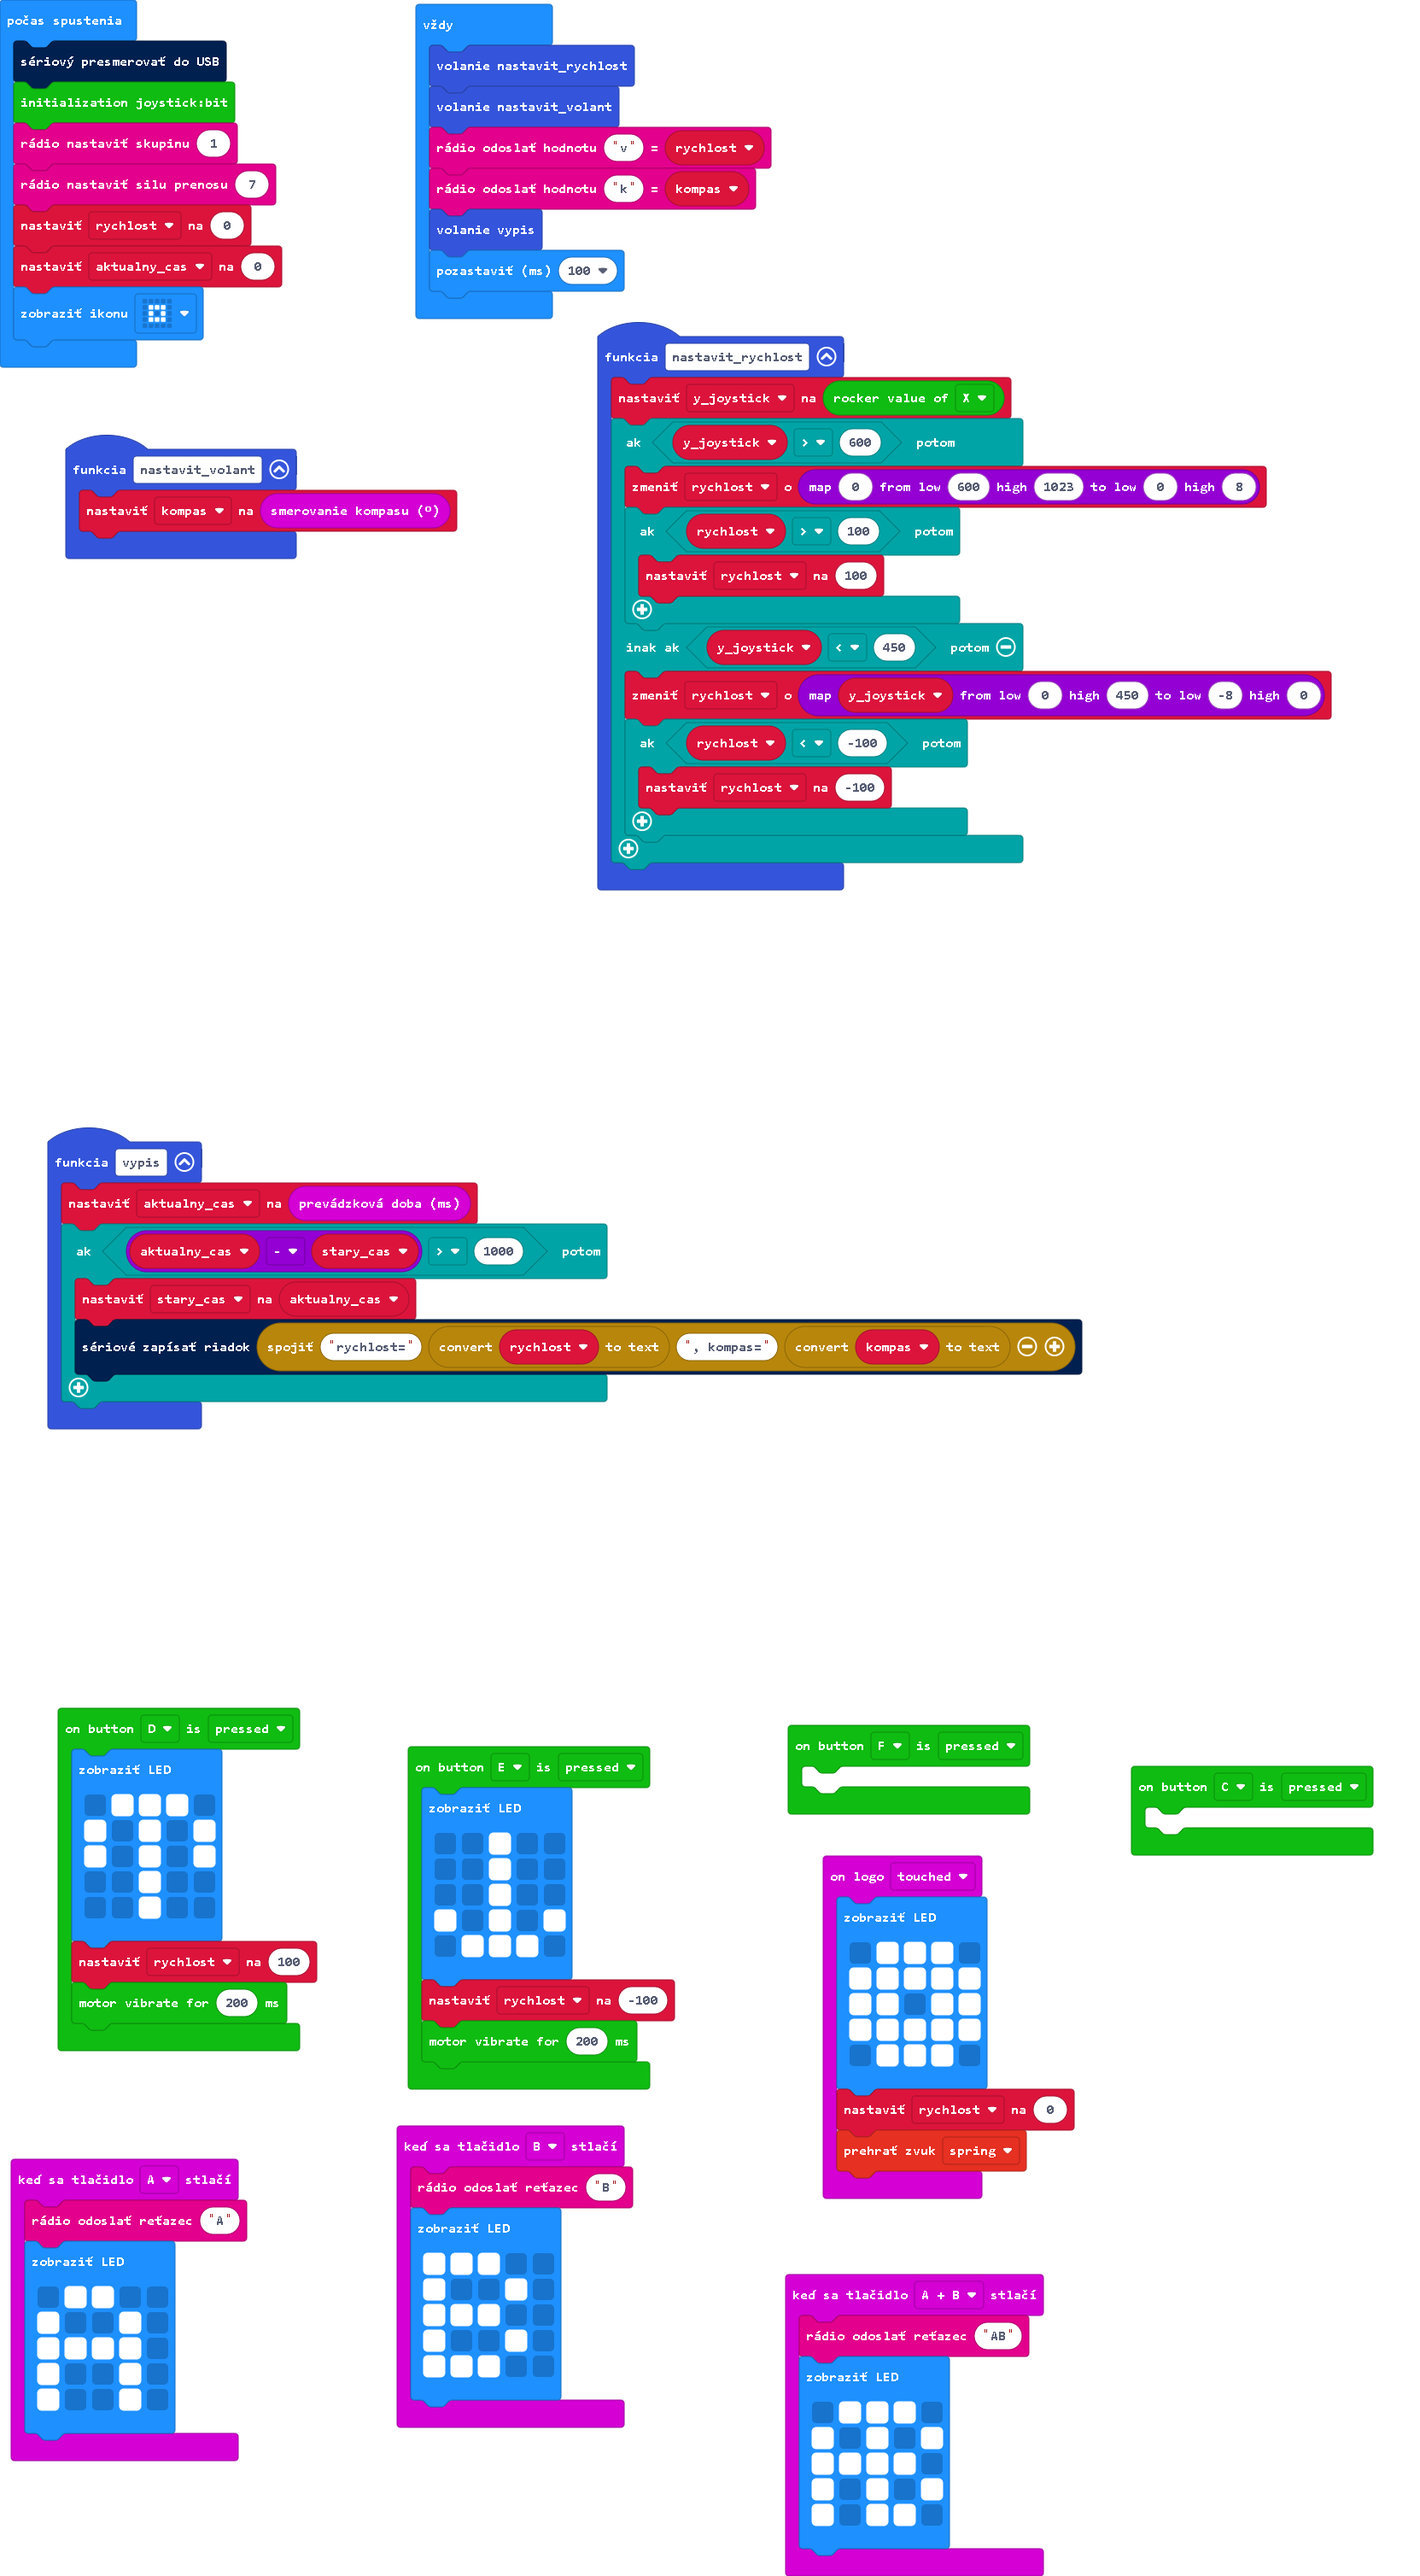
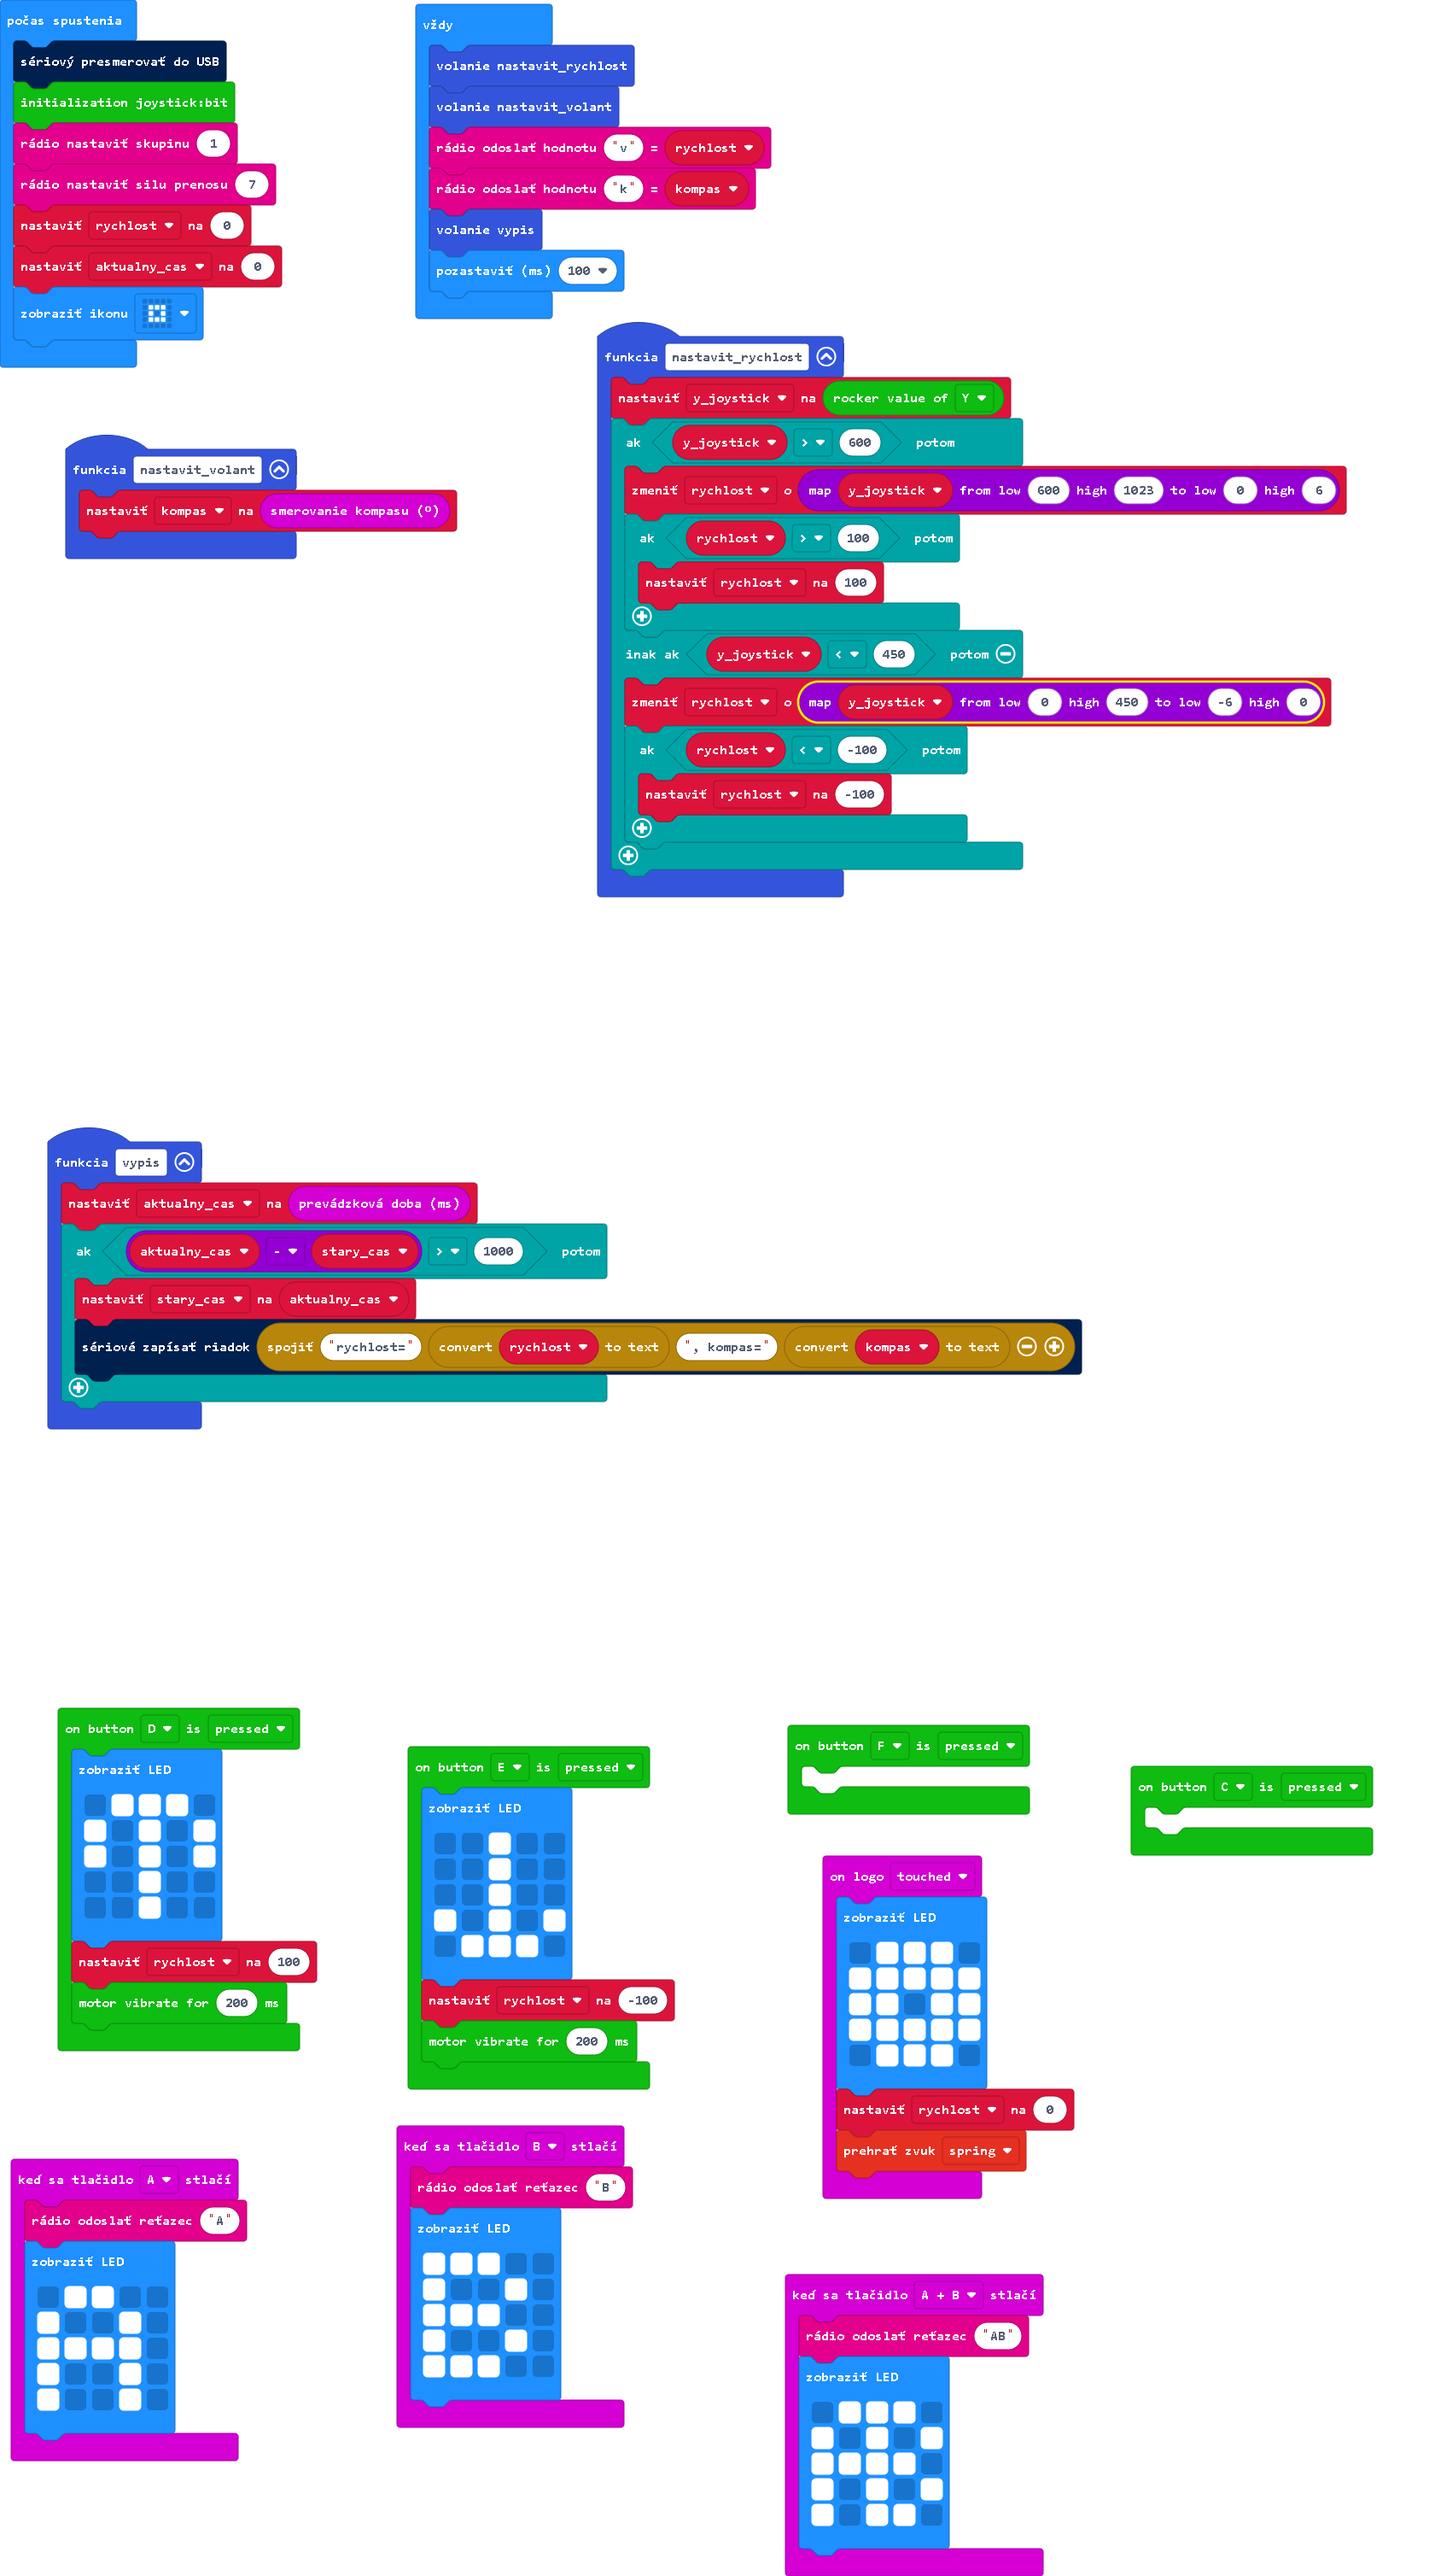
Aktualizovať main.blocks, main.ts

diff --git a/main.ts b/main.ts
@@ -78,14 +78,14 @@ joystickbit.onButtonEvent(joystickbit.JoystickBitPin.P12, joystickbit.ButtonType
 	
 })
 function nastavit_rychlost () {
-    y_joystick = joystickbit.getRockerValue(joystickbit.rockerType.X)
+    y_joystick = joystickbit.getRockerValue(joystickbit.rockerType.Y)
     if (y_joystick > 600) {
-        rychlost += Math.map(0, 600, 1023, 0, 8)
+        rychlost += Math.map(y_joystick, 600, 1023, 0, 6)
         if (rychlost > 100) {
             rychlost = 100
         }
     } else if (y_joystick < 450) {
-        rychlost += Math.map(y_joystick, 0, 450, -8, 0)
+        rychlost += Math.map(y_joystick, 0, 450, -6, 0)
         if (rychlost < -100) {
             rychlost = -100
         }
